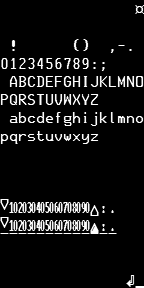
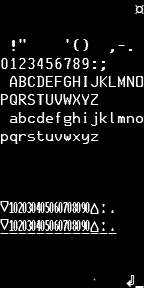
wp

diff --git a/assets/bios/wp.js b/assets/bios/wp.js
@@ -13,8 +13,9 @@ const MEM = system.maxmem()
 const NO_LINEHEAD_PUNCT = [33,34,39,41,44,46,58,59,62,63,93,125]
 const NO_LINELAST_PUNCT = [34,39,40,60,91,123]
 
-let PAGE_HEIGHT = 56
+let PAGE_HEIGHT = 60
 let PAGE_WIDTH = 80
+// 80x60  -> 720x1080 text area; with 72px margin for each side, paper resolution is 864x1224, which is quite close to 1:sqrt(2) ratio
 
 let scroll = 0
 let scrollHor = 0
@@ -32,6 +33,9 @@ let cursoringCol = 0
 
 let filename = "NEWFILE"
 let modified = false
+let editorMode = 1 // 0: Visual Mode, 1: Edit Mode, 2: Command Mode; just like the good ol' Vi
+const editorModeLabel = ["VISUAL MODE (hit I to EDIT, hit : to enter a COMMAND)", "EDIT MODE (hit ESC to Visual Mode)", ":"]
+let cmdbuf = ""
 
 let windowWidth = 0
 let windowHeight = 0
@@ -50,7 +54,7 @@ function drawInit() {
     PAINT_START_X = caretLeft + 1
 
     paintWidth = caretRight - caretLeft
-    paintHeight = windowHeight - PAINT_START_Y + 1
+    paintHeight = windowHeight - PAINT_START_Y
 
     scrollPeek = Math.ceil((paintHeight / 7))
 
@@ -130,8 +134,8 @@ function drawTextbuffer(from, toExclusive) {
                 vc += 1
             }
         }
-        else if (c >= 32) {
-            printbuf[vr] += String.fromCharCode(c)
+        else if (c >= 32 && c <= 175 || c >= 224 && c <= 253) {
+            printbuf[vr] += String.fromCharCode((c == 32) ? 250 : c)
             vc += 1
         }
 
@@ -166,6 +170,18 @@ function drawColumnInd() {
     }
 }
 
+function drawCmdbuf() {
+    con.color_pair(COL_TEXT, COL_BACK)
+    con.move(windowHeight, 2)
+    for (let i = 2; i <= windowWidth - 1; i++) {
+        print(' ')
+    }
+    con.move(windowHeight, 2)
+    print(editorModeLabel[editorMode])
+
+    if (2 == editorMode) print(cmdbuf)
+}
+
 function drawMain() {
     con.curs_set(0)
     drawInit()
@@ -174,10 +190,8 @@ function drawMain() {
 
     drawMenubar()
     drawPRC()
-
-    // column indicator
     drawColumnInd()
-
+    drawCmdbuf()
 
 }
 
